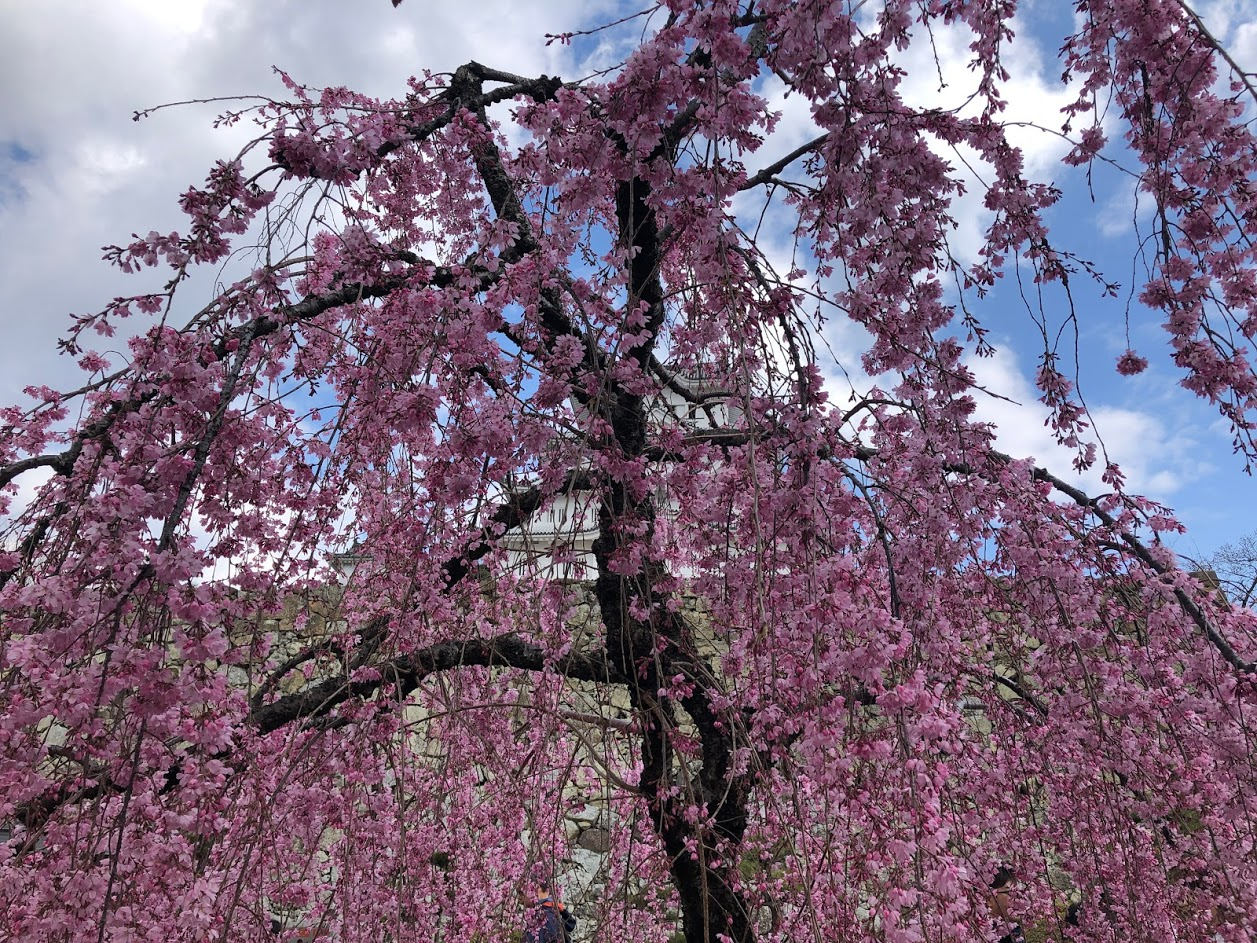
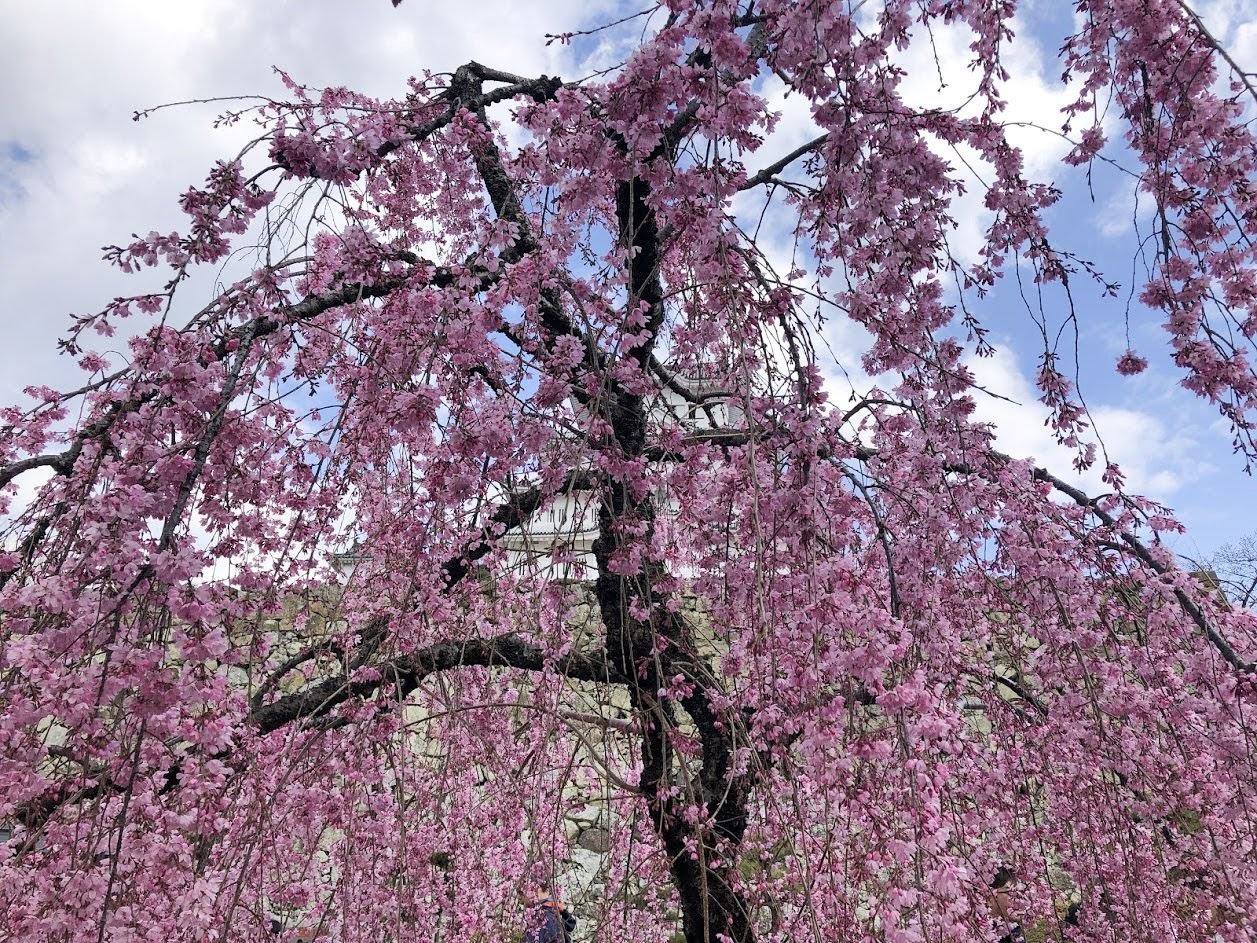
feat: some changes to himeji

diff --git a/src/pages/asia/japan/himeji-castle.tsx b/src/pages/asia/japan/himeji-castle.tsx
@@ -44,6 +44,7 @@ import { HimejiCastle3Image } from "../../../components/images/asia/japan/himeji
 import { HimejiCastleWithCherry4Image } from "../../../components/images/asia/japan/himeji/castle/himejiCastleWithCherry4Image"
 import { HimejiCastle2Image } from "../../../components/images/asia/japan/himeji/castle/himejiCastle2Image"
 import { HimejiCastle4Image } from "../../../components/images/asia/japan/himeji/castle/himejiCastle4Image"
+import { HimejiCastleWithCherry3Image } from "../../../components/images/asia/japan/himeji/castle/himejiCastleWithCherry3Image"
 
 const IndexPage = () => {
   return (
@@ -183,7 +184,7 @@ const Content = () => {
           </p>
           <TwoImagesSameSize>
             <HimejiCastle4Image />
-            <HimejiCastleWithCherry4Image />
+            <HimejiCastleWithCherry3Image />
           </TwoImagesSameSize>
           <p>
             Nous avons le choix de visiter l’intérieur ou de continuer vers l’extérieur, les deux se valent. Le château

diff --git a/src/components/images/asia/japan/himeji/castle/himejiCastleWithCherry3Image.tsx b/src/components/images/asia/japan/himeji/castle/himejiCastleWithCherry3Image.tsx
@@ -1,0 +1,18 @@
+import { useStaticQuery, graphql } from "gatsby"
+import Img from "gatsby-image"
+import * as React from "react"
+
+export const HimejiCastleWithCherry3Image = ({ className = "" }: { className?: string }) => {
+  const data = useStaticQuery(graphql`
+    query {
+      file: file(relativePath: { eq: "asia/japan/himeji/castle/himeji-castle-with-cherry-3.jpg" }) {
+        childImageSharp {
+          fluid(maxWidth: 1200) {
+            ...GatsbyImageSharpFluid
+          }
+        }
+      }
+    }
+  `)
+  return <Img fluid={data.file.childImageSharp.fluid} alt="Himeji castle with cherry" className={className} />
+}
